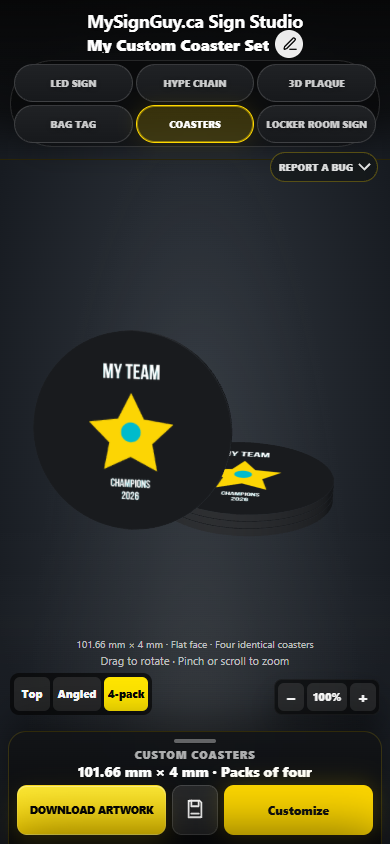
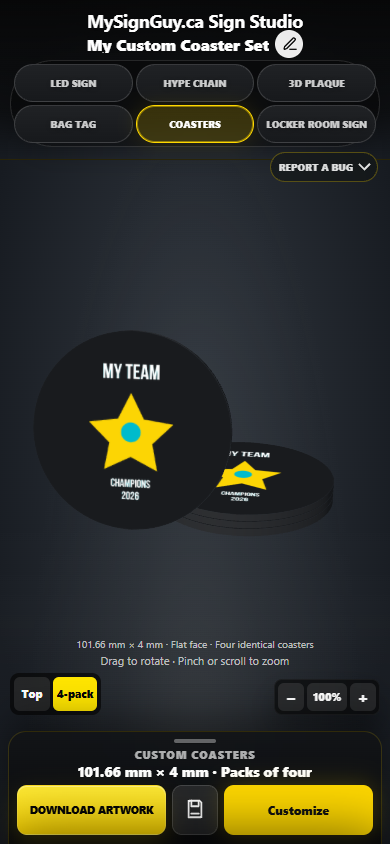
Simplify coaster views and remove size and quantity UI

Changed region(s): [[0.1231, 0.7701, 0.4, 0.8626]]

diff --git a/assets/coaster/coaster-product.js b/assets/coaster/coaster-product.js
@@ -4,7 +4,7 @@ const COASTER_DEPTH_MM = 4;
 const COASTER_PACK_SIZE = 4;
 const COASTER_SIGN_DEFAULTS = Object.freeze({backing:'#191b1e',font:'Bebas Neue Bold',packs:1});
 let coasterSign, coasterView, coasterImage, coasterRevision=0;
-function coasterState(){return coasterSign ||= {...COASTER_SIGN_DEFAULTS,palette:[],source:null,wizardEdit:null,name:'',projectId:null,busy:false,error:'',view:'angled',angle:.12,tilt:.62,zoom:1,backingIndex:-1};}
+function coasterState(){return coasterSign ||= {...COASTER_SIGN_DEFAULTS,palette:[],source:null,wizardEdit:null,name:'',projectId:null,busy:false,error:'',view:'top',angle:0,tilt:0,zoom:1,backingIndex:-1};}
 function coasterDimensions(){return {diameterMm:COASTER_DIAMETER_MM,widthMm:COASTER_DIAMETER_MM,heightMm:COASTER_DIAMETER_MM,depthMm:COASTER_DEPTH_MM,baseMm:COASTER_DEPTH_MM,raisedMm:0};}
 function coasterColours(){const s=coasterState();return uniqueHexColours([s.backing,...s.palette.map(p=>p.colour)]);}
 function coasterReady(){const s=coasterState();return Boolean(s.source&&s.preparedDataUrl&&s.palette.length&&!coasterUploadSession&&!s.busy&&!s.error&&coasterColours().length<=8&&Number.isInteger(s.packs)&&s.packs>=1&&s.packs<=99);}
@@ -14,9 +14,8 @@ function setupCoaster(){
  setupFileButtonKeyboard(document.querySelector('#coasterChooseFile'),document.querySelector('#coasterLogoFile'));
  document.querySelector('#coasterLogoFile').addEventListener('change',async event=>{const file=event.target.files[0];if(!file)return;try{await beginCoasterLogoWizard(file);}catch(error){coasterState().error=error.message;syncCoasterControls();updateProjectControls();setStatus('Upload failed');}finally{event.target.value='';}});
  document.querySelector('#coasterEditDesign').addEventListener('click',editExistingCoasterDesign);
- document.querySelector('#coasterPacks').addEventListener('input',event=>{const raw=Number(event.target.value);coasterState().packs=Number.isInteger(raw)&&raw>=1&&raw<=99?raw:0;syncCoasterQuantity();updateProjectControls();});
  document.querySelector('#coasterBackground').addEventListener('click',event=>openCoasterColourPopover(coasterState().backingIndex,event.currentTarget));
- document.querySelectorAll('[data-coaster-view]').forEach(button=>button.addEventListener('click',()=>{const s=coasterState();s.view=button.dataset.coasterView;s.angle=s.view==='top'?0:.12;s.tilt=s.view==='top'?0:s.view==='pack'?.32:.62;s.zoom=1;renderCoasterView();}));
+ document.querySelectorAll('[data-coaster-view]').forEach(button=>button.addEventListener('click',()=>{const s=coasterState();s.view=button.dataset.coasterView;s.angle=s.view==='top'?0:.12;s.tilt=s.view==='top'?0:.32;s.zoom=1;renderCoasterView();}));
  document.querySelectorAll('[data-coaster-zoom]').forEach(button=>button.addEventListener('click',()=>{coasterState().zoom=clamp(coasterState().zoom*Number(button.dataset.coasterZoom),.6,2.5);renderCoasterView();}));
  document.querySelector('#coasterZoomReset').addEventListener('click',()=>{coasterState().zoom=1;renderCoasterView();});
 }
@@ -79,9 +78,8 @@ function renderCoasterView(){
  const {renderer,camera,scene}=coasterView;renderer.setSize(w,h,false);camera.aspect=w/h;camera.position.copy(target).addScaledVector(eye,fitLockerCameraDistance(bounds,target,eye,camera.aspect)/s.zoom);camera.lookAt(target);camera.updateProjectionMatrix();renderer.render(scene,camera);
  document.querySelectorAll('[data-coaster-view]').forEach(button=>{const active=button.dataset.coasterView===s.view;button.classList.toggle('active',active);button.setAttribute('aria-pressed',String(active));});document.querySelector('#coasterZoomReset').textContent=Math.round(s.zoom*100)+'%';
 }
-function syncCoasterQuantity(){const s=coasterState();document.querySelector('#coasterQuantity').textContent=s.packs?`${s.packs*4} coasters · ${s.packs} ${s.packs===1?'pack':'packs'} of 4`:'Enter 1–99 packs';}
 function syncCoasterControls(){
- const s=coasterState();document.querySelector('#coasterEditDesign').hidden=!s.source;document.querySelector('#coasterBackground i').style.background=s.backing;document.querySelector('#coasterColourCount').textContent=`${coasterColours().length} of 8 colours used`;document.querySelector('#coasterMessage').textContent=s.error;document.querySelector('#coasterPacks').value=s.packs||'';syncCoasterQuantity();
+ const s=coasterState();document.querySelector('#coasterEditDesign').hidden=!s.source;document.querySelector('#coasterBackground i').style.background=s.backing;document.querySelector('#coasterColourCount').textContent=`${coasterColours().length} of 8 colours used`;document.querySelector('#coasterMessage').textContent=s.error;
  const host=document.querySelector('#coasterPalette');host.replaceChildren();s.palette.forEach((p,k)=>{if(k===s.backingIndex)return;const label=`Artwork colour ${k+1}`,button=document.createElement('button');button.type='button';button.className='hype-colour-chip';button.dataset.coasterPalette=k;button.title=label;button.setAttribute('aria-label',label);const ink=document.createElement('i');ink.style.background=p.colour;button.append(ink);button.addEventListener('click',()=>openCoasterColourPopover(k,button));host.append(button);});
 }
 function openCoasterColourPopover(index,button){state.selectedColourTarget={type:'coaster',index};updatePopoverInputs(index<0?coasterState().backing:coasterState().palette[index].colour);positionColourPopover(button);renderUsedColourGrid();setPopoverTab('preset');}
@@ -105,6 +103,7 @@ async function restoreCoasterProject(project){
  const c=project.config?.coaster,d=project.config?.dimensions;if(!c||!project.source?.dataUrl||!c.preparedDataUrl||!Array.isArray(c.palette)||!c.palette.length||c.palette.length>8||d?.diameterMm!==101.66||d?.depthMm!==4||project.config.packSize!==4)throw new Error('Invalid coaster project. Expected a 101.66 mm × 4 mm coaster, in packs of four.');
  const image=await loadImage(c.preparedDataUrl),candidate={...COASTER_SIGN_DEFAULTS,...c,source:{...project.source},name:project.name,projectId:project.id,busy:false,error:'',backing:normalizeHex(c.backing),packs:Number(c.packs),palette:c.palette.map(p=>{if(!Array.isArray(p.rgb)||p.rgb.length!==3||p.rgb.some(v=>!Number.isFinite(v)))throw new Error('Invalid coaster colours.');return {rgb:p.rgb.map(v=>clamp(v,0,255)),colour:normalizeHex(p.colour),height:0};})};
  if(!Number.isInteger(candidate.packs)||candidate.packs<1||candidate.packs>99||uniqueHexColours([candidate.backing,...candidate.palette.map(p=>p.colour)]).length>8)throw new Error('Invalid coaster pack quantity or colour count.');
+ if(!['top','pack'].includes(candidate.view)){candidate.view='top';candidate.angle=0;candidate.tilt=0;candidate.zoom=1;}
  coasterSign=candidate;coasterImage=image;++coasterRevision;state.productSelectionMenuResolved=true;hideProductSelectionMenu();selectProductType('coaster');await activateCoaster();await refreshProjectLog();
 }
-async function captureCoasterShots(){const s=coasterState(),old={view:s.view,angle:s.angle,tilt:s.tilt,zoom:s.zoom},shots=[];try{for(const view of ['top','angled','pack']){Object.assign(s,{view,angle:view==='top'?0:.12,tilt:view==='top'?0:view==='pack'?.32:.62,zoom:1});renderCoasterView();const blob=await new Promise(resolve=>coasterView.renderer.domElement.toBlob(resolve,'image/png')),fileName=`coaster-${view}.png`;shots.push({label:view,fileName,blob,file:new File([blob],fileName,{type:'image/png'})});}}finally{Object.assign(s,old);renderCoasterView();}return shots;}
+async function captureCoasterShots(){const s=coasterState(),old={view:s.view,angle:s.angle,tilt:s.tilt,zoom:s.zoom},shots=[];try{for(const view of ['top','pack']){Object.assign(s,{view,angle:view==='top'?0:.12,tilt:view==='top'?0:.32,zoom:1});renderCoasterView();const blob=await new Promise(resolve=>coasterView.renderer.domElement.toBlob(resolve,'image/png')),fileName=`coaster-${view}.png`;shots.push({label:view,fileName,blob,file:new File([blob],fileName,{type:'image/png'})});}}finally{Object.assign(s,old);renderCoasterView();}return shots;}

diff --git a/index.html b/index.html
@@ -130,7 +130,6 @@
 
 <section class="panel-section coaster-controls" id="coasterControls" hidden aria-label="Custom coaster configurator">
   <div class="section-heading"><h2>Custom Coasters</h2><span class="coaster-pack-badge">4-PACK</span></div>
-  <p class="coaster-spec">101.66 mm diameter × 4 mm thick</p>
   <div class="coaster-upload-row"><button class="primary-button upload-button" id="coasterChooseFile" type="button">Upload your logo</button><button class="secondary-button" id="coasterEditDesign" type="button" hidden>Edit design</button></div>
   <input id="coasterLogoFile" type="file" hidden accept="image/png,image/jpeg,image/webp,image/svg+xml,.png,.jpg,.jpeg,.webp,.svg" />
   <p class="coaster-helper">Place your logo and add text to the circle. One design, repeated on all four coasters.</p>
@@ -139,8 +138,6 @@
     <div class="coaster-colour-group"><span>Logo &amp; text</span><div id="coasterPalette" class="hype-colour-row" aria-label="Artwork and text colours"></div></div>
     <p class="coaster-helper">Up to 8 colours across the entire coaster. Reusing a colour counts once.</p>
   </section>
-  <div class="coaster-quantity"><label for="coasterPacks">Packs of four</label><input id="coasterPacks" type="number" min="1" max="99" step="1" value="1" inputmode="numeric"/><output id="coasterQuantity" aria-live="polite">4 coasters · 1 pack of 4</output></div>
-  <p class="coaster-helper">Flat artwork and text. Plain reverse. All four coasters are identical.</p>
   <p id="coasterMessage" class="coaster-message" role="status" aria-live="polite"></p>
   <p class="coaster-local-note">Local preview · Save your design or download the finished artwork.</p>
 </section>
@@ -543,7 +540,7 @@
           </section>
           <img class="default-led-preview-image" id="defaultLedPreviewImage" alt="" hidden />
 <section id="coasterPreview" hidden aria-label="Coaster visualizer"><div id="coasterCanvas"></div>
-  <div class="coaster-camera-tools" role="group" aria-label="Coaster view"><button type="button" class="zoom-button" data-coaster-view="top" aria-pressed="false">Top</button><button type="button" class="zoom-button active" data-coaster-view="angled" aria-pressed="true">Angled</button><button type="button" class="zoom-button" data-coaster-view="pack" aria-pressed="false">4-pack</button></div>
+  <div class="coaster-camera-tools" role="group" aria-label="Coaster view"><button type="button" class="zoom-button active" data-coaster-view="top" aria-pressed="true">Top</button><button type="button" class="zoom-button" data-coaster-view="pack" aria-pressed="false">4-pack</button></div>
   <div class="visualizer-zoom-controls coaster-zoom-tools" role="group" aria-label="Coaster zoom"><button type="button" class="zoom-button" data-coaster-zoom="0.85" aria-label="Zoom out">−</button><button type="button" class="zoom-button" id="coasterZoomReset" aria-label="Reset zoom">100%</button><button type="button" class="zoom-button" data-coaster-zoom="1.18" aria-label="Zoom in">+</button></div>
   <p class="coaster-preview-note">101.66 mm × 4 mm · Flat face · Four identical coasters</p><p class="coaster-gesture-hint">Drag to rotate · Pinch or scroll to zoom</p>
 </section>

diff --git a/assets/coaster/coaster.css b/assets/coaster/coaster.css
@@ -50,8 +50,8 @@
 .coaster-controls h2{font-size:18px;margin:0}
 .coaster-controls h3{font-size:14px;margin:0}
 .coaster-pack-badge{font-size:10px;letter-spacing:.8px;font-weight:800;background:#ffe500;color:#171717;border-radius:5px;padding:5px 7px;white-space:nowrap}
-.coaster-spec{font-size:12px;color:var(--muted);margin:6px 0 16px}
-.coaster-upload-row{display:flex;gap:8px;margin:0 0 9px}
+.product-coaster #dimensionStat{display:none!important}
+.coaster-upload-row{display:flex;gap:8px;margin:14px 0 9px}
 #coasterChooseFile{flex:1;min-width:0;font-size:14px;padding:10px;min-height:40px}
 .product-coaster #coasterControls #coasterChooseFile{display:block;font-size:14px!important;line-height:1.3!important;white-space:nowrap;text-align:center!important}
 #coasterEditDesign{font-size:12px;padding:8px 10px;white-space:nowrap}
@@ -64,15 +64,12 @@
 .coaster-colour-group{display:flex;align-items:center;justify-content:space-between;gap:12px;margin:14px 0;font-size:12px}
 #coasterPalette{justify-content:flex-end;flex:1;min-height:34px;flex-wrap:wrap;gap:6px}
 #coasterPalette:empty::after{content:'Upload a logo';color:var(--muted);font-size:11px;padding-top:8px}
-.coaster-quantity{display:grid;grid-template-columns:minmax(0,1fr) 76px;gap:8px;align-items:center;font-size:13px}
-#coasterPacks{width:76px;min-height:36px;padding:7px;border:1px solid var(--line);border-radius:7px;background:#202426;color:var(--ink);font-size:14px}
-#coasterQuantity{grid-column:1/-1;font-size:11px;color:var(--muted);background:none;border:0;padding:0}
 .coaster-message{font-size:12px;line-height:1.5;color:#ffe500}.coaster-message:empty{display:none}
 #coasterPreview{position:absolute;inset:146px 0 16px;z-index:3}
 #coasterPreview[hidden]{display:none}
 #coasterCanvas{position:absolute;inset:0 0 86px;touch-action:none}
 #coasterCanvas canvas{display:block;width:100%;height:100%}
-.coaster-camera-tools{position:absolute;left:16px;bottom:0;display:grid;grid-template-columns:48px 56px 54px;gap:4px;padding:6px;border-radius:9px;background:#050505b5}
+.coaster-camera-tools{position:absolute;left:16px;bottom:0;display:grid;grid-template-columns:48px 54px;gap:4px;padding:6px;border-radius:9px;background:#050505b5}
 .coaster-camera-tools .zoom-button{font-size:11px!important;padding:0!important;min-height:34px}
 .coaster-camera-tools .active{background:#ffe500;color:#050505}
 .product-coaster #coasterPreview .coaster-zoom-tools{display:grid!important;right:16px;bottom:0;grid-template-columns:34px 50px 34px}
@@ -89,7 +86,6 @@
  .product-coaster #previewTitle{font-size:16px;min-width:0;max-width:calc(100vw - 72px);overflow:hidden;text-overflow:ellipsis;white-space:nowrap}
  .coaster-controls{padding:12px}
  .coaster-preview-note{font-size:10px}
- .coaster-camera-tools{left:10px;grid-template-columns:36px 48px 44px;gap:3px;padding:4px}
+ .coaster-camera-tools{left:10px;grid-template-columns:36px 44px;gap:3px;padding:4px}
  .product-coaster #coasterPreview .coaster-zoom-tools{right:10px;grid-template-columns:26px 40px 26px;gap:3px;padding:4px}
- #coasterPacks{font-size:16px;min-height:40px}
 }

diff --git a/COASTER-LOCAL-REVIEW.md b/COASTER-LOCAL-REVIEW.md
@@ -15,10 +15,9 @@ This is a separate checkout on `codex/coaster-designer`, based on published base
 1. Upload a PNG, JPEG, WebP, or SVG logo.
 2. Use the adapted Locker Room circle editor: place/crop the logo, resize, move, centre, change the background, and add independent text boxes. Fonts, text size in millimetres, colours, multiline text, drag handles, and keyboard movement are available.
 3. Review the colour conversion, adjust mapping, and confirm.
-4. Use the standard colour swatches and Top / Angled / 4-pack views. The four-pack view shows three coasters stacked flat with a fourth leaning against the stack, matching the supplied reference. All four remain the same physical size.
-5. Choose a number of packs. Each pack contains four identical coasters.
-6. Save a `.SignGuy` project, reopen it through the folder button or saved-design card, and use Edit design to continue editing.
-7. Download artwork to obtain the finished circle as PNG and SVG.
+4. Use the standard colour swatches and Top / 4-pack views. The four-pack view shows three coasters stacked flat with a fourth leaning against the stack, matching the supplied reference. All four remain the same physical size.
+5. Save a `.SignGuy` project, reopen it through the folder button or saved-design card, and use Edit design to continue editing.
+6. Download artwork to obtain the finished circle as PNG and SVG.
 
 For a prepared example, open `verification/coaster-review.SignGuy` through the folder button.
 
@@ -32,9 +31,9 @@ For a prepared example, open `verification/coaster-review.SignGuy` through the f
 
 ## Verification
 
-- `node verification/check-coaster.cjs`: upload, circle/text placement, out-of-bounds blocking, palette changes, quantity validation, local save, file restore, re-edit/cancel, product switching, and 320 / 390 / 768 px layouts. Zero browser errors and zero outbound POSTs.
+- `node verification/check-coaster.cjs`: upload, circle/text placement, out-of-bounds blocking, palette changes, local save, file restore, re-edit/cancel, product switching, and 320 / 390 / 768 px layouts. Zero browser errors and zero outbound POSTs.
 - `node verification/check-coaster-limits.cjs`: eight-colour limit with background and text included, background replacement at the limit, invalid-size rejection, PNG/SVG download, and export comparison. All 810,693 interior pixels match between PNG and rendered SVG. Zero failed network responses or browser errors.
-- `node verification/check-coaster-pack.cjs`: three horizontal bodies at 0–4, 4–8, and 8–12 mm, one leaning body with its bottom at the same floor level, unchanged local body dimensions, identical artwork, and unclipped framing at 1440 / 1024 / 768 / 390 / 320 px. Top/Angled reset correctly and screenshot capture restores the selected view.
+- `node verification/check-coaster-pack.cjs`: three horizontal bodies at 0–4, 4–8, and 8–12 mm, one leaning body with its bottom at the same floor level, unchanged local body dimensions, identical artwork, and unclipped framing at 1440 / 1024 / 768 / 390 / 320 px. Top view resets correctly and screenshot capture restores the selected view.
 - `node --test tests/*.test.js`: all 32 existing tests pass.
 - Four-pack geometry measured 101.660003662 mm × 101.660003662 mm × 4.000000000 mm per body (normal floating-point vertex precision).
 - Screenshots and machine-readable results are in `verification/coaster-*`.
